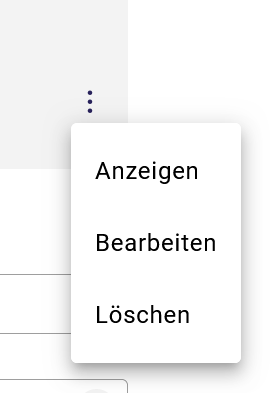
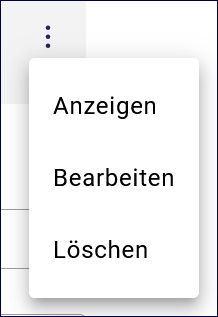
Aktualisierung

Changed region(s): [[0.0, 0.0, 1.0, 1.0], [0.1927, 0.0852, 0.2477, 0.1703]]

diff --git a/docs/ingrid-editor/erfassung/erfassung-metadaten.rst b/docs/ingrid-editor/erfassung/erfassung-metadaten.rst
@@ -447,7 +447,10 @@ Abb.: Raumbezug hinzufügen
 
 Für die Definition eines geografischen Bereichs, geben Sie in das Feld "Ort" einen Ortsnamen oder einen Naturraum ein. Während der Eingabe werden Vorschläge angezeigt. Durch die Auswahl eines vorgeschlagenen Ortes, wird in der Karte eine BoundingBox für den gewählten Ort oder das Gebiet erzeugt.
 
-.. figure:: ../../img/ige/erfassung/ige_metadaten/abschnitt-06_raumbezug/raumbezug_ortsangabe.png
+.. figure:: ../../img/ige/erfassung/ige_metadaten/abschnitt-06_raumbezug/raumbezug_viewer.png
+   :align: left
+   :scale: 50
+   :figwidth: 100%
 
 Abb.: Raumbezug nach Orten suchen
 
